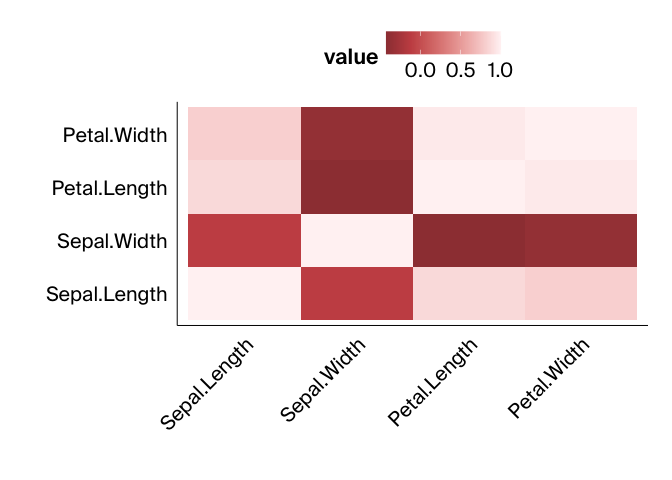
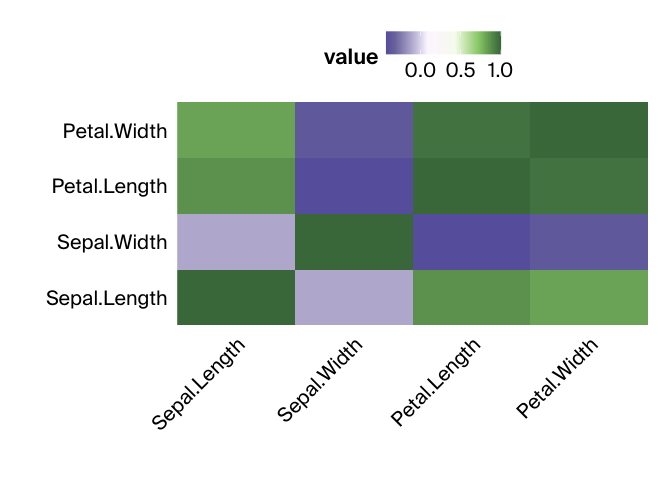
fixed bicolor gradient bug, updated documentation

diff --git a/README.md b/README.md
@@ -34,7 +34,10 @@ library(arcadiathemeR)
 
 The arcadiathemeR package is modeled after the [`ggthemes`
 package](https://github.com/jrnold/ggthemes), layering on the plot theme
-and color palettes in the same fashion as the `ggthemes` package.
+and color palettes in the same fashion as the `ggthemes` package. There
+are two main functions to layer on top of existing `ggplot2` plots, the
+`theme_arcadia` function and the `scale` function, where the particular
+`scale` function used depends on if you call `color` or `fill`:
 
 ``` r
 library(ggplot2)
@@ -49,6 +52,8 @@ ggplot(data=mtcars, aes(x=hp, y=mpg, color=as.factor(cyl))) +
 ```
 
 ![](man/figures/README-base_use-1.png)<!-- -->
+
+### Adjusting default behavior
 
 By default the `theme_arcadia()` function assumes that both axes are
 numerical data. Since we have different font and plot styles for
@@ -65,14 +70,18 @@ ggplot(data=diamonds, aes(x=cut, fill=cut)) +
 
 ![](man/figures/README-categorical_plot-1.png)<!-- -->
 
-To save plots, we have a custom `save_arcadia_plot()` function built on
-top of `ggsave()` that helps you export plots that adhere to our size
+### Exporting plots
+
+To save plots, we have a custom `save_arcadia_plot` function built on
+top of `ggsave` that helps you export plots that adhere to our size
 guidelines and can be used with the Illustrator templates. The different
 plot size options are
 `"full_wide", "float_wide", "half_square", "full_square",` or
-`"float_square"`. Additionally for the background to be transparent in
-exported plots you need to set this argument to `FALSE` in the
-`theme_arcadia()` function:
+`"float_square"`. By default the plot is exported as a PDF, but you can
+also save a PDF and PNG at the same time withe same filepath names, but
+the exports will differ by the file extension. Additionally for the
+background to be transparent in exported plots you need to set this
+argument to `FALSE` in the `theme_arcadia` function:
 
 ``` r
 plot <- ggplot(data=diamonds, aes(x=cut, fill=cut)) +
@@ -82,7 +91,7 @@ plot <- ggplot(data=diamonds, aes(x=cut, fill=cut)) +
   scale_y_continuous(expand=c(0,0)) + # removes whitespace between axis and bars
   theme(legend.position = "bottom")
 
-save_arcadia_plot("man/figures/arcadia-plot.pdf", plot, panel_size = "full_square")
+save_arcadia_plot("man/figures/arcadia-plot", plot, panel_size = "full_square", formats = c("pdf", "png"))
 ```
 
 You can also select different indices of colors from the palettes within
@@ -98,6 +107,8 @@ ggplot(mtcars, aes(x = hp, fill = as.factor(cyl))) +
 ```
 
 ![](man/figures/README-scale_index-1.png)<!-- -->
+
+### Gradient Palettes
 
 You can also apply gradient palettes to your plots with
 `gradient_fill_arcadia` or `gradient_scale_arcadia` in a similar fashion
@@ -128,13 +139,17 @@ melted_cor_matrix <- (melt(cor_matrix))
 ggplot(melted_cor_matrix, aes(x=Var1, y=Var2, fill=value)) +
   geom_tile() +
   theme_arcadia(x_axis_type = "categorical", y_axis_type = "categorical", background = FALSE) +
-  gradient_fill_arcadia(palette_name = "reds") + 
+  gradient_fill_arcadia(palette_name = "purplegreen") + 
   theme(axis.text.x = element_text(angle = 45, hjust = 1),
-        legend.position = "top") +
-  labs(x = "", y = "")
+        legend.position = "top", axis.line = element_blank()) +
+  labs(x = "", y = "") +
+  scale_y_discrete(expand=c(0,0)) +
+  scale_x_discrete(expand = c(0,0))
 ```
 
 ![](man/figures/README-heatmap_example-1.png)<!-- -->
+
+### View all palette options
 
 You can view all the color palette options and the individual hex codes
 composing each palette within the main and gradient palettes with:
@@ -254,7 +269,7 @@ show_arcadia_gradients()
 #> [1] "#964222" "#FFB984" "#F8F4F1" "#F7FBEF" "#B5BEA4" "#2A6B5E"
 #> 
 #> $orangesage$positions
-#> [1] 0.000 0.761 1.000 1.000 0.641 0.000
+#> [1] 0.0000 0.3805 0.5000 0.5000 0.8205 1.0000
 #> 
 #> 
 #> $reds
@@ -278,7 +293,7 @@ show_arcadia_gradients()
 #> [1] "#9E3F41" "#C85152" "#FFF3F4" "#F4FBFF" "#5088C5" "#2B65A1"
 #> 
 #> $redblue$positions
-#> [1] 0.000 0.212 1.000 1.000 0.254 0.000
+#> [1] 0.000 0.106 0.500 0.500 0.627 1.000
 #> 
 #> 
 #> $purples
@@ -302,7 +317,7 @@ show_arcadia_gradients()
 #> [1] "#6862AB" "#7A77AB" "#FCF7FF" "#F7FBEF" "#97CD78" "#47784A"
 #> 
 #> $purplegreen$positions
-#> [1] 0.000 0.144 1.000 1.000 0.622 0.000
+#> [1] 0.000 0.072 0.500 0.500 0.811 1.000
 ```
 
 ## Development
